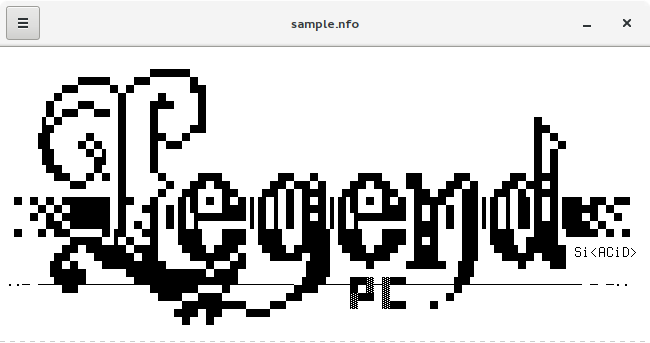
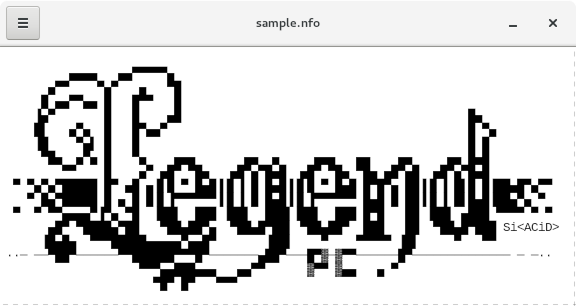
Add HiDPI screenshots

diff --git a/index.html b/index.html
@@ -8,8 +8,8 @@
     <title>NFO Viewer</title>
     <link rel="icon" type="image/x-icon" href="favicon.ico?v=1">
     <link rel="apple-touch-icon" href="apple-touch-icon.png?v=1">
-    <link rel="stylesheet" href="https://cdnjs.cloudflare.com/ajax/libs/twitter-bootstrap/3.3.6/css/bootstrap.min.css">
-    <link rel="stylesheet" href="https://cdnjs.cloudflare.com/ajax/libs/lightbox2/2.8.2/css/lightbox.min.css">
+    <link rel="stylesheet" href="https://cdnjs.cloudflare.com/ajax/libs/twitter-bootstrap/3.3.7/css/bootstrap.min.css">
+    <link rel="stylesheet" href="https://cdnjs.cloudflare.com/ajax/libs/magnific-popup.js/1.1.0/magnific-popup.min.css">
     <link rel="stylesheet" href="style.css?v=1">
   </head>
   <body>
@@ -30,8 +30,11 @@
         <a href="https://github.com/otsaloma/nfoview/releases">
           Release details and other downloads</a>
       </p>
-      <a href="screenshot-1.png" class="image" data-lightbox="screenshots">
-        <img class="screenshot" src="screenshot-header.png" alt="Screenshot"></a>
+      <a href="screenshot-1.png" class="image-popup">
+        <img class="screenshot"
+             src="screenshot-header.png"
+             srcset="screenshot-header@2x.png 2x"
+             alt="Screenshot"></a>
     </div>
     <div id="features" class="container-fluid section">
       <div class="row">
@@ -60,13 +63,13 @@
       <a href="https://gitter.im/otsaloma/nfoview">Discuss</a>
       <a href="https://github.com/otsaloma/nfoview">Code</a>
       <a href="https://github.com/otsaloma/nfoview/issues">Bugs</a>
-      <a href="http://www.transifex.com/otsaloma/nfoview/">Translations</a>
+      <a href="https://www.transifex.com/otsaloma/nfoview/">Translations</a>
       <p>Built and maintained by Osmo Salomaa</p>
     </div>
-    <script src="https://cdnjs.cloudflare.com/ajax/libs/jquery/2.2.3/jquery.min.js"></script>
-    <script src="https://cdnjs.cloudflare.com/ajax/libs/twitter-bootstrap/3.3.6/js/bootstrap.min.js"></script>
-    <script src="https://cdnjs.cloudflare.com/ajax/libs/platform/1.3.1/platform.min.js"></script>
-    <script src="https://cdnjs.cloudflare.com/ajax/libs/lightbox2/2.8.2/js/lightbox.min.js"></script>
+    <script src="https://cdnjs.cloudflare.com/ajax/libs/jquery/2.2.4/jquery.min.js"></script>
+    <script src="https://cdnjs.cloudflare.com/ajax/libs/twitter-bootstrap/3.3.7/js/bootstrap.min.js"></script>
+    <script src="https://cdnjs.cloudflare.com/ajax/libs/platform/1.3.3/platform.min.js"></script>
+    <script src="https://cdnjs.cloudflare.com/ajax/libs/magnific-popup.js/1.1.0/jquery.magnific-popup.min.js"></script>
     <script src="main.js?v=1"></script>
   </body>
 </html>

diff --git a/style.css b/style.css
@@ -65,27 +65,6 @@ p {
   color: white !important;
 }
 
-/* Lightbox */
-
-#lightbox a {
-  border-bottom: none !important;
-}
-
-#lightbox .lb-container {
-  padding: 24px !important;
-}
-
-#lightbox .lb-image {
-  background-color: rgba(0,0,0,0.15);
-  box-shadow: 0px 0px 12px rgba(0,0,0,0.5);
-}
-
-#lightbox .lb-number {
-  font-size: 16px !important;
-  font-weight: 700 !important;
-  line-height: 30px !important;
-}
-
 /* Sections */
 
 .section {

diff --git a/main.js b/main.js
@@ -6,3 +6,12 @@ $(document).on("ready", function() {
         $(".download.windows").show();
     }
 });
+
+$(document).on("ready", function() {
+    $(".image-popup").magnificPopup({
+        closeOnContentClick: true,
+        retina: {ratio: 2},
+        showCloseBtn: false,
+        type: "image",
+    });
+});
